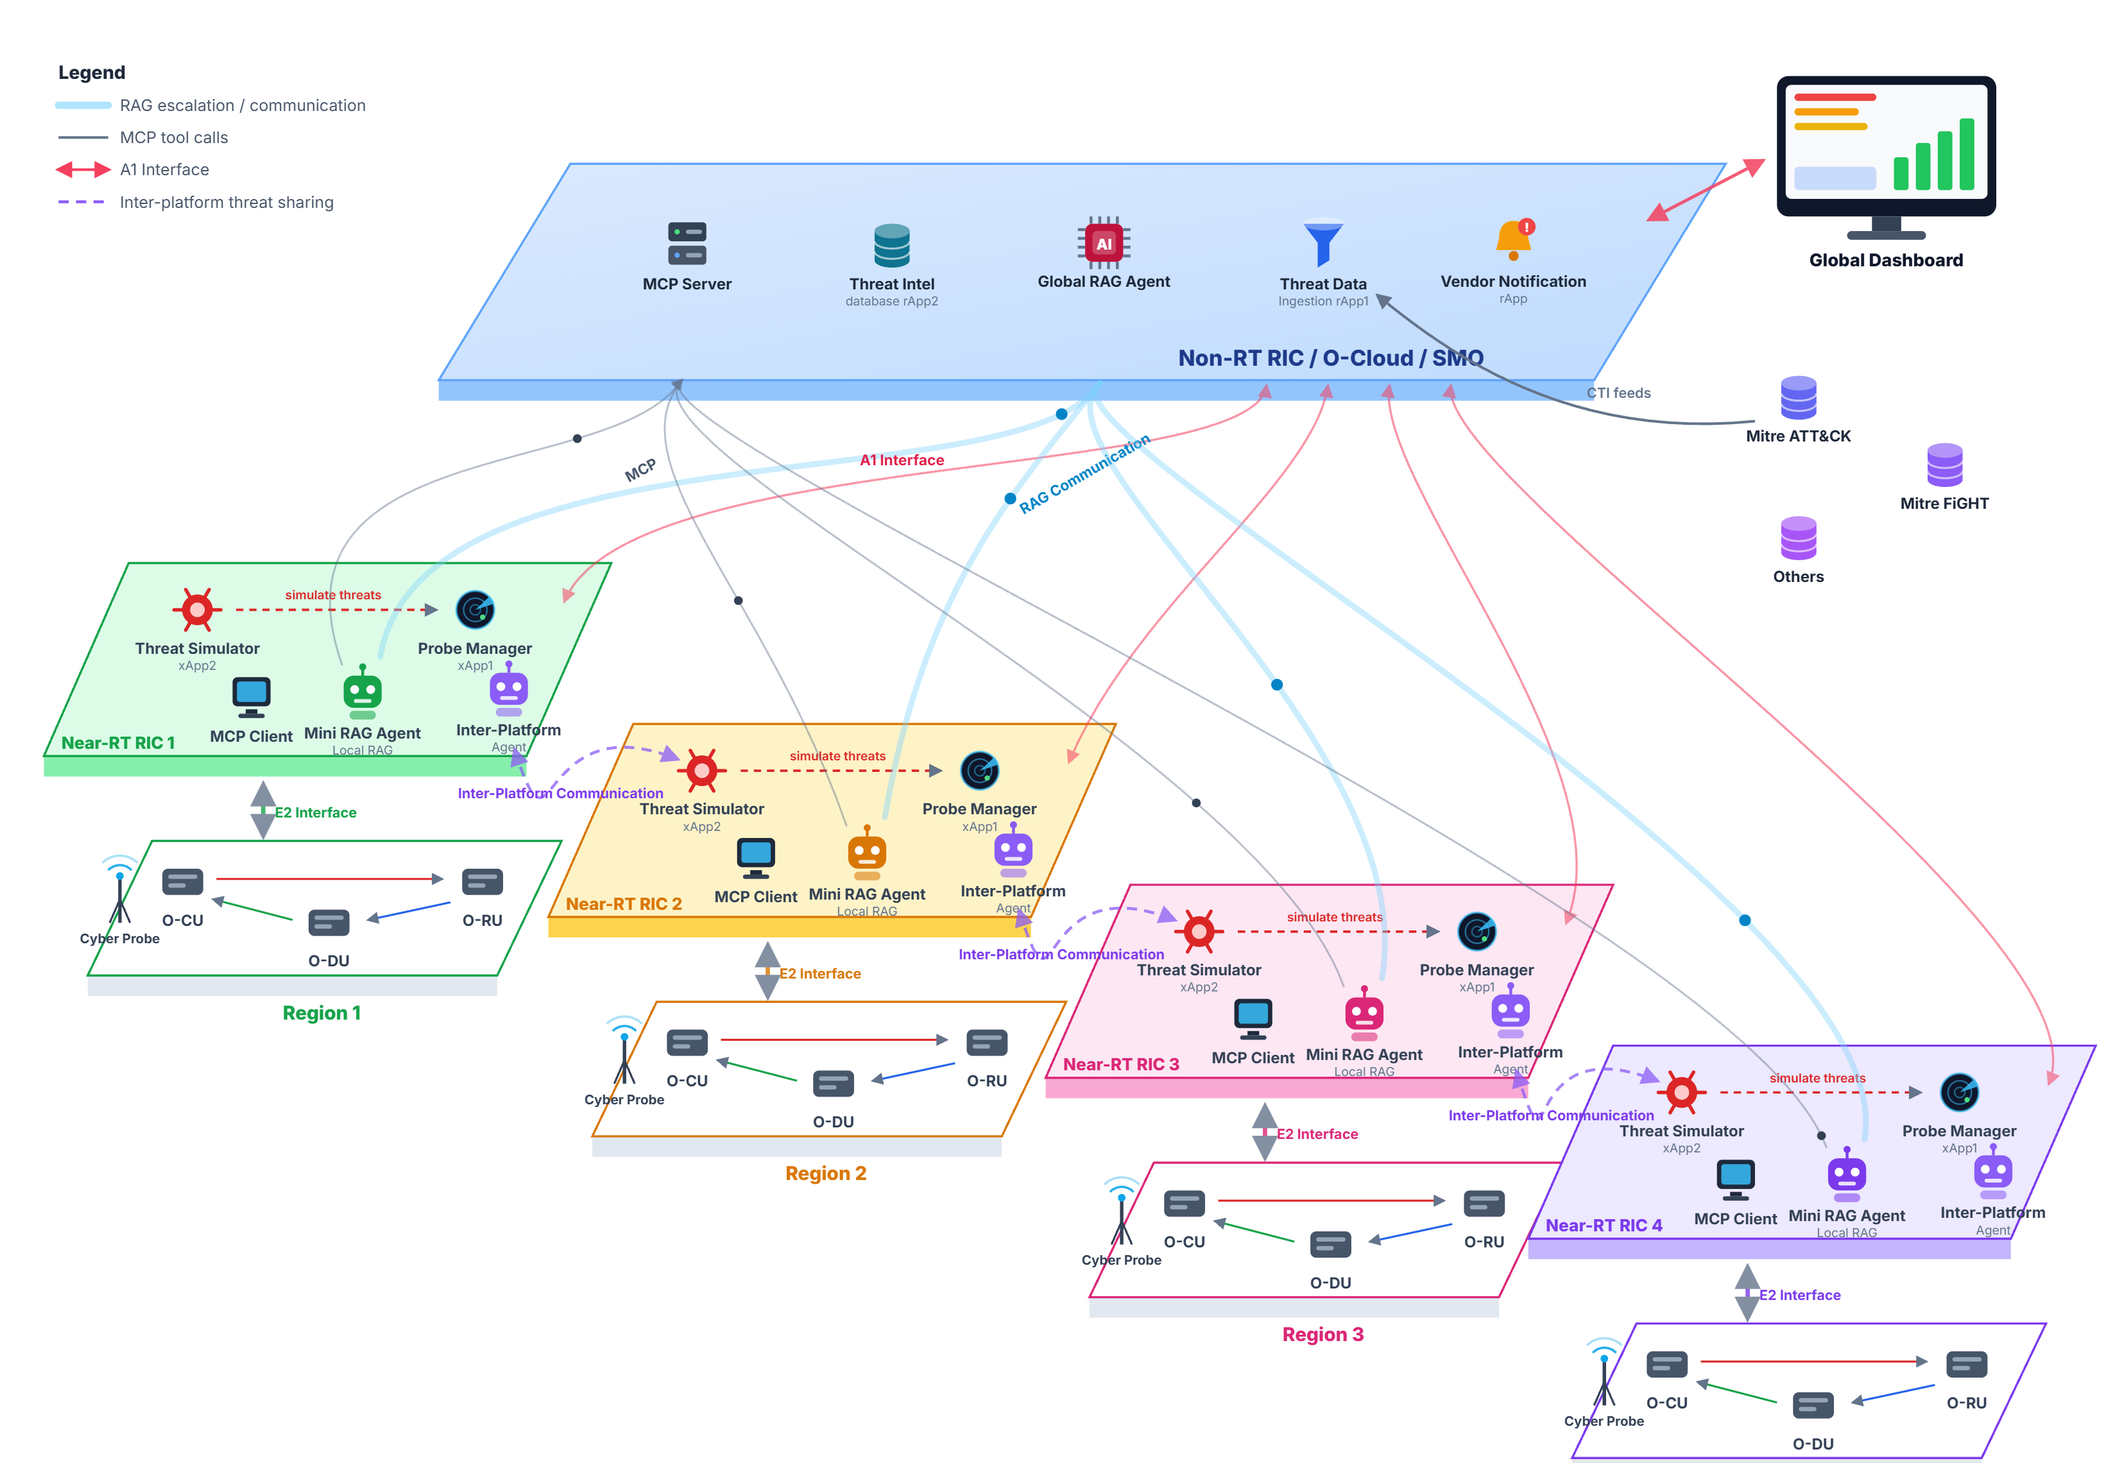
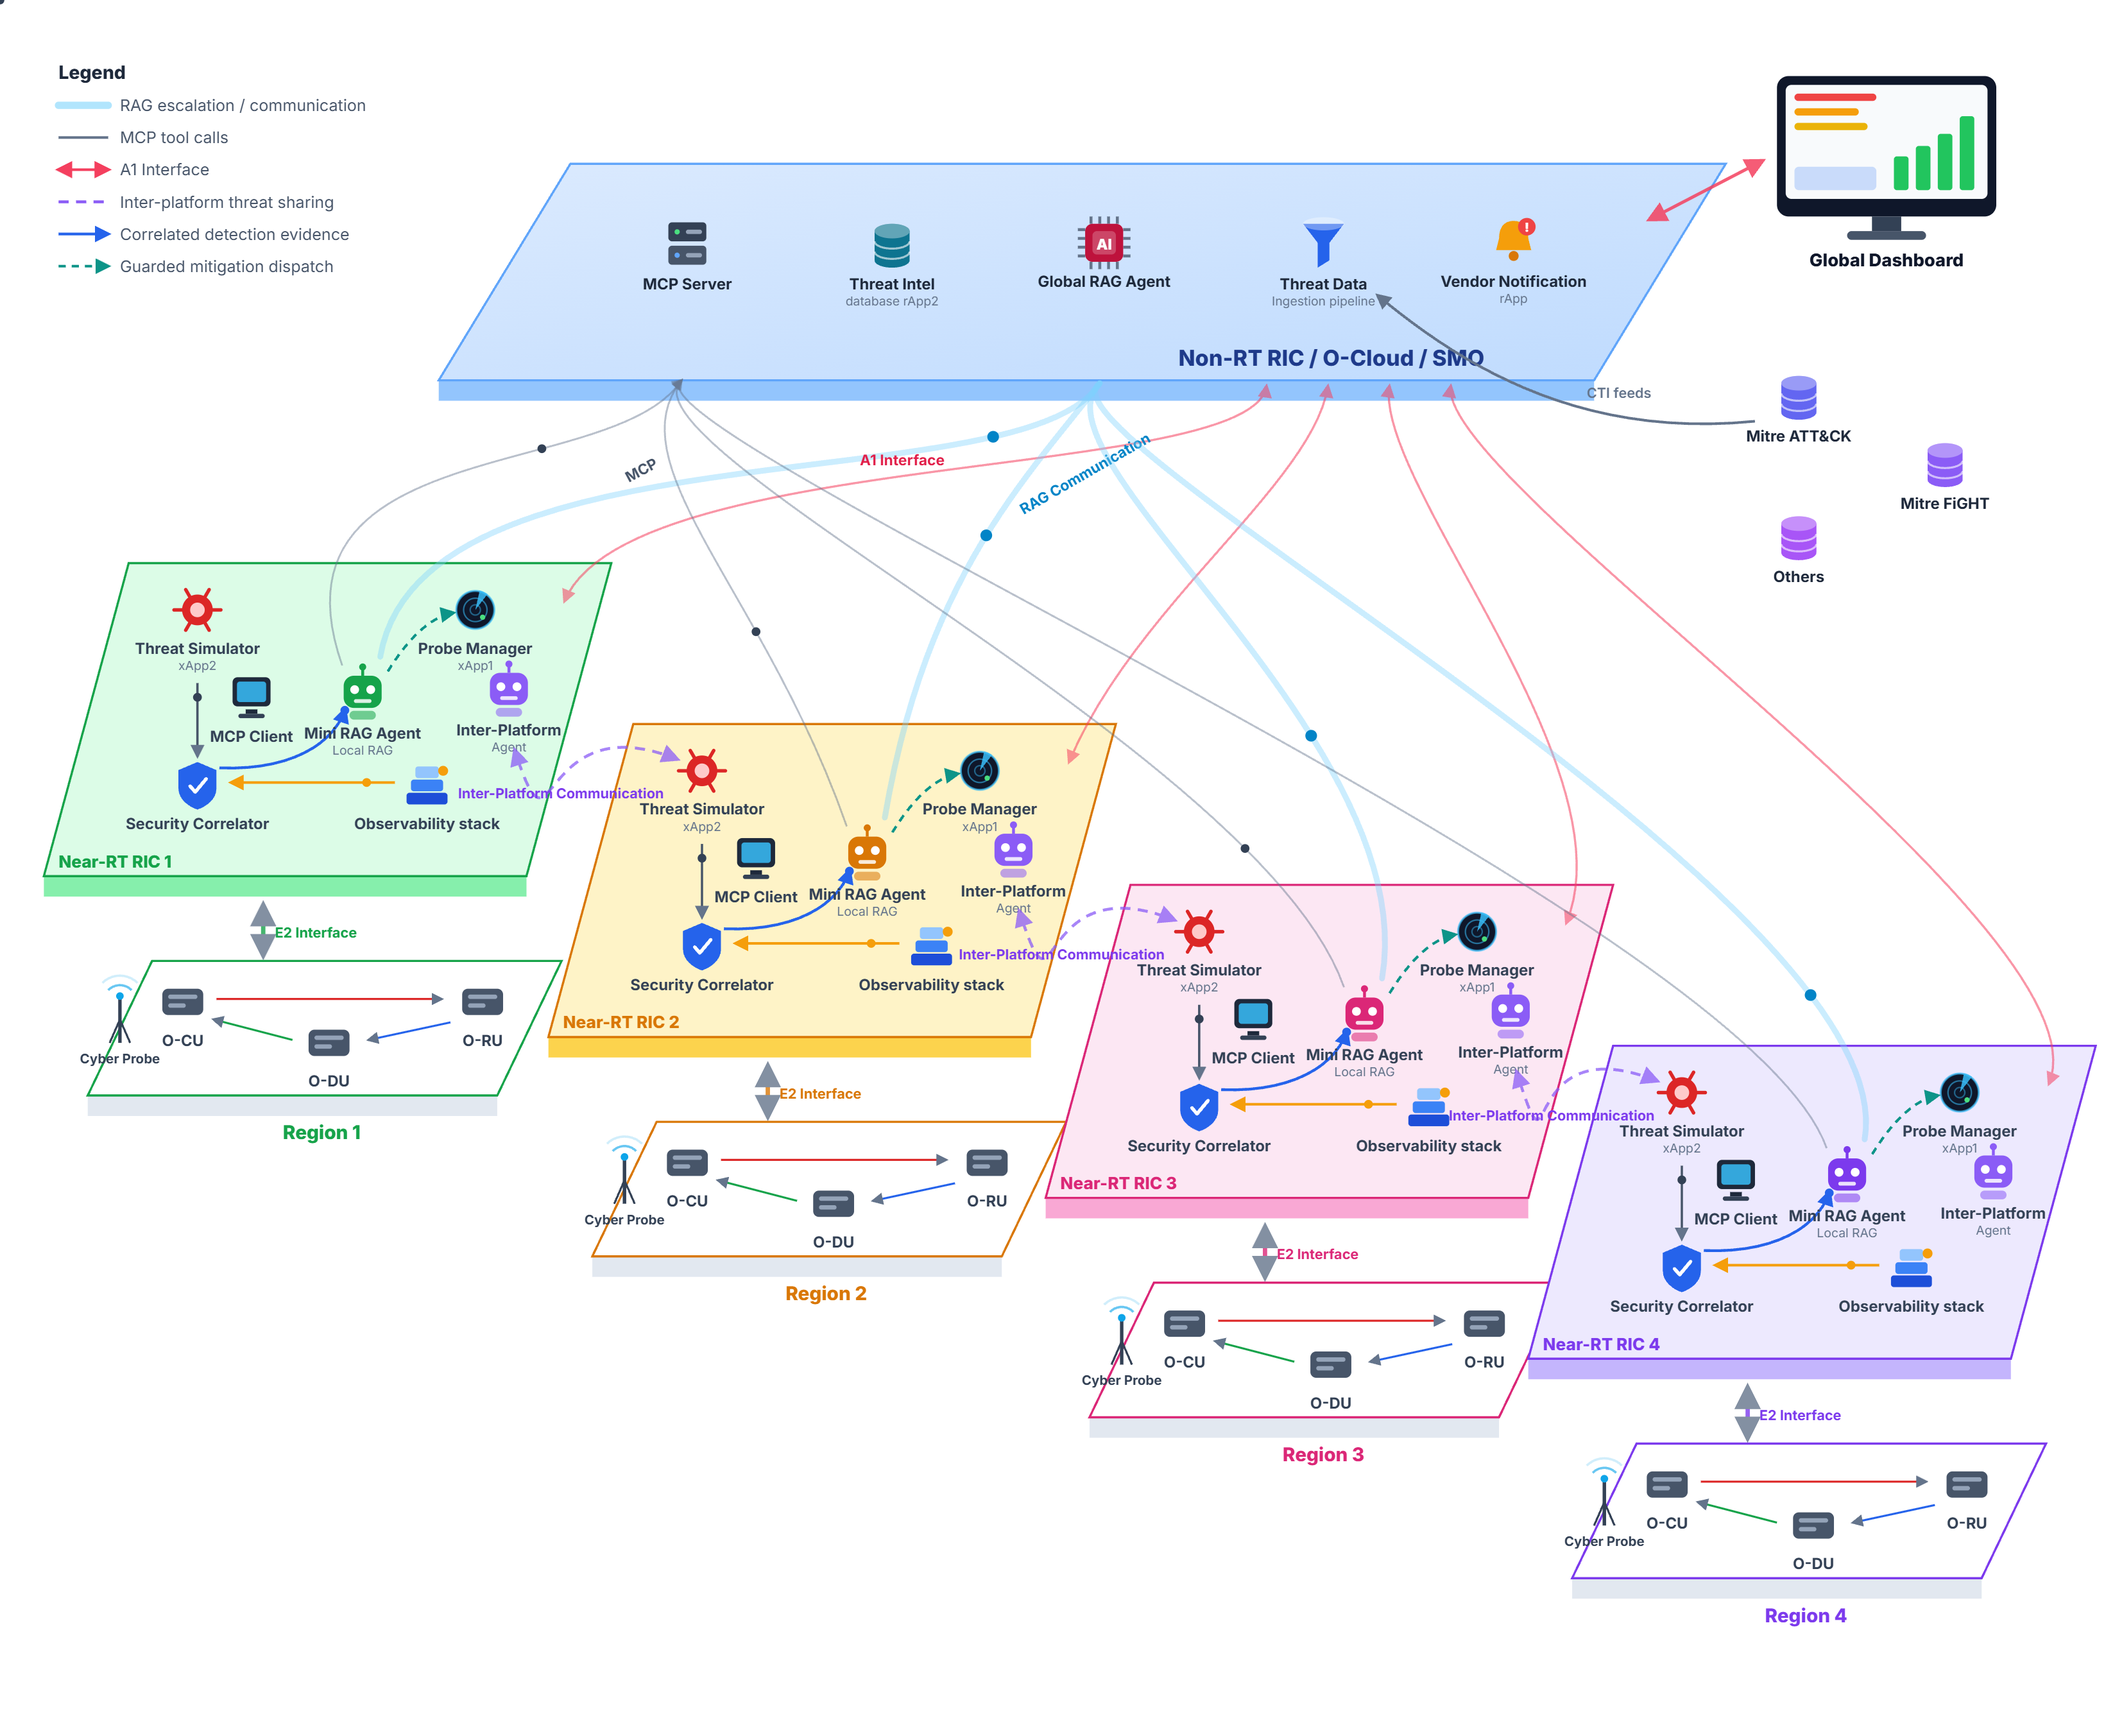
Update architecture: new diagram plus detection and mitigation in the SVG
- Overview now uses the updated architecture drawing. The source export
  embedded 93 MB of drawio XML in a PNG text chunk, so the committed
  asset is the flattened image composited onto white (638 KB); the raw
  export is gitignored.
- Animated architecture diagram gains the two sections the old drawing
  was missing, per region: a Security Correlator fed by xApp2 evidence
  and the observability stack, handing the normalised event to the Mini
  RAG agent, plus a guarded mitigation dispatch to xApp1. Legend extended
  with both new link types.
- Region slabs grew to fit the new row, which also fixes the Region 4
  label that was previously clipped outside the viewBox.

diff --git a/src/components/IsometricArchitecture.tsx b/src/components/IsometricArchitecture.tsx
@@ -18,9 +18,27 @@ type Glyph =
   | 'radar'
   | 'client'
   | 'node'
+  | 'shield'
+  | 'stack'
 
 function GlyphShape({ kind, color }: { kind: Glyph; color: string }) {
   switch (kind) {
+    case 'shield':
+      return (
+        <g>
+          <path d="M0 -16 L13 -10.5 V2 C13 9.5 6 14.5 0 16.5 C-6 14.5 -13 9.5 -13 2 V-10.5 Z" fill={color} />
+          <path d="M-5 0.5 L-1.5 4.5 L6 -4.5" fill="none" stroke="#ffffff" strokeWidth={2.4} strokeLinecap="round" strokeLinejoin="round" />
+        </g>
+      )
+    case 'stack':
+      return (
+        <g>
+          <rect x={-14} y={5} width={28} height={8} rx={2} fill="#1d4ed8" />
+          <rect x={-11} y={-4} width={22} height={8} rx={2} fill="#3b82f6" />
+          <rect x={-8} y={-13} width={16} height={8} rx={2} fill="#93c5fd" />
+          <circle cx={11} cy={-10} r={3.4} fill="#f59e0b" />
+        </g>
+      )
     case 'server':
       return (
         <g>
@@ -227,7 +245,7 @@ const EDGE: Record<number, string> = { 1: '#86efac', 2: '#fcd34d', 3: '#f9a8d4',
 export default function IsometricArchitecture() {
   return (
     <div className="card overflow-x-auto p-3">
-      <svg viewBox="0 0 1440 1000" className="min-w-[1050px]" role="img" aria-label="System architecture: Non-RT RIC platform over four Near-RT RIC regions">
+      <svg viewBox="0 0 1440 1180" className="min-w-[1050px]" role="img" aria-label="System architecture: Non-RT RIC platform over four Near-RT RIC regions">
         <defs>
           <marker id="ia-rose" viewBox="0 0 10 10" refX="8" refY="5" markerWidth="6.5" markerHeight="6.5" orient="auto-start-reverse">
             <path d="M0 0L10 5L0 10z" fill="#f43f5e" />
@@ -237,6 +255,15 @@ export default function IsometricArchitecture() {
           </marker>
           <marker id="ia-slate" viewBox="0 0 10 10" refX="8" refY="5" markerWidth="6" markerHeight="6" orient="auto-start-reverse">
             <path d="M0 0L10 5L0 10z" fill="#64748b" />
+          </marker>
+          <marker id="ia-amber" viewBox="0 0 10 10" refX="8" refY="5" markerWidth="6" markerHeight="6" orient="auto-start-reverse">
+            <path d="M0 0L10 5L0 10z" fill="#f59e0b" />
+          </marker>
+          <marker id="ia-blue" viewBox="0 0 10 10" refX="8" refY="5" markerWidth="6" markerHeight="6" orient="auto-start-reverse">
+            <path d="M0 0L10 5L0 10z" fill="#2563eb" />
+          </marker>
+          <marker id="ia-teal" viewBox="0 0 10 10" refX="8" refY="5" markerWidth="6" markerHeight="6" orient="auto-start-reverse">
+            <path d="M0 0L10 5L0 10z" fill="#0d9488" />
           </marker>
           <linearGradient id="ia-plat" x1="0" y1="0" x2="1" y2="1">
             <stop offset="0%" stopColor="#dbeafe" />
@@ -295,26 +322,50 @@ export default function IsometricArchitecture() {
           return (
             <g key={n}>
               {/* RIC slab */}
-              <Slab x={x} y={y} w={330} h={132} skew={58} fill={SURFACE[n]} edge={EDGE[n]} stroke={color} />
-              <text x={x + 12} y={y + 127} fontSize={11.5} fontWeight={800} fill={color}>
+              <Slab x={x} y={y} w={330} h={214} skew={58} fill={SURFACE[n]} edge={EDGE[n]} stroke={color} />
+              <text x={x + 10} y={y + 208} fontSize={11.5} fontWeight={800} fill={color}>
                 Near-RT RIC {n}
               </text>
 
               <Icon x={x + 105} y={y + 32} kind="bug" label="Threat Simulator" sub="xApp2" labelColor="#334155" />
               <Icon x={x + 295} y={y + 32} kind="radar" label="Probe Manager" sub="xApp1" labelColor="#334155" />
-              <line x1={x + 128} y1={y + 32} x2={x + 268} y2={y + 32} stroke="#dc2626" strokeWidth={1.6} strokeDasharray="5 4" markerEnd="url(#ia-slate)">
-                <animate attributeName="stroke-dashoffset" from="18" to="0" dur="1s" repeatCount="indefinite" />
-              </line>
-              <text x={x + 198} y={y + 25} textAnchor="middle" fontSize={8.5} fill="#dc2626" fontWeight={600}>
-                simulate threats
-              </text>
+
+              {/* detection: observability stack feeds the security correlator */}
+              <Icon x={x + 105} y={y + 152} kind="shield" label="Security Correlator" color="#2563eb" labelColor="#334155" />
+              <Icon x={x + 262} y={y + 152} kind="stack" label="Observability stack" labelColor="#334155" />
+
+              {/* xApp2 evidence straight down into the correlator */}
+              <line x1={x + 105} y1={y + 82} x2={x + 105} y2={y + 132} stroke="#475569" strokeWidth={1.6} markerEnd="url(#ia-slate)" />
+              <MovingDot path={`M ${x + 105} ${y + 82} V ${y + 130}`} color="#334155" dur={2.4} r={3} />
+
+              {/* observability stack into the correlator */}
+              <line x1={x + 240} y1={y + 150} x2={x + 128} y2={y + 150} stroke="#f59e0b" strokeWidth={1.8} markerEnd="url(#ia-amber)" />
+              <MovingDot path={`M ${x + 240} ${y + 150} H ${x + 130}`} color="#f59e0b" dur={2.2} delay={0.3} r={3} />
+
+              {/* correlator hands the normalised event to the Mini RAG agent */}
+              <path
+                d={`M ${x + 120} ${y + 140} C ${x + 168} ${y + 142}, ${x + 198} ${y + 124}, ${x + 206} ${y + 100}`}
+                fill="none" stroke="#2563eb" strokeWidth={1.9} markerEnd="url(#ia-blue)"
+              />
+              <MovingDot
+                path={`M ${x + 120} ${y + 140} C ${x + 168} ${y + 142}, ${x + 198} ${y + 124}, ${x + 206} ${y + 100}`}
+                color="#2563eb" dur={2.2} delay={0.7} r={3}
+              />
+
+              {/* guarded mitigation dispatched to xApp1 */}
+              <path
+                d={`M ${x + 234} ${y + 76} C ${x + 252} ${y + 46}, ${x + 268} ${y + 36}, ${x + 280} ${y + 34}`}
+                fill="none" stroke="#0d9488" strokeWidth={1.8} strokeDasharray="5 4" markerEnd="url(#ia-teal)"
+              >
+                <animate attributeName="stroke-dashoffset" from="18" to="0" dur="1.1s" repeatCount="indefinite" />
+              </path>
 
               <Icon x={x + 142} y={y + 92} kind="client" label="MCP Client" labelColor="#334155" />
               <Icon x={x + 218} y={y + 90} kind="bot" label="Mini RAG Agent" sub="Local RAG" color={color} labelColor="#334155" />
               <Icon x={x + 318} y={y + 88} kind="bot" label="Inter-Platform" sub="Agent" color="#8b5cf6" labelColor="#334155" />
 
               {/* E2 down to RAN */}
-              <g transform={`translate(${x + 150},${y + 152})`}>
+              <g transform={`translate(${x + 150},${y + 234})`}>
                 <line x1={0} y1={0} x2={0} y2={34} stroke={color} strokeWidth={3} opacity={0.8} markerEnd="url(#ia-slate)" markerStart="url(#ia-slate)" />
                 <text x={8} y={22} fontSize={9.5} fontWeight={700} fill={color}>
                   E2 Interface
@@ -322,15 +373,15 @@ export default function IsometricArchitecture() {
               </g>
 
               {/* RAN slab */}
-              <Slab x={x + 30} y={y + 190} w={280} h={92} skew={44} fill="white" edge="#e2e8f0" stroke={color} />
-              <Icon x={x + 95} y={y + 218} kind="node" label="O-CU" labelColor="#334155" />
-              <Icon x={x + 300} y={y + 218} kind="node" label="O-RU" labelColor="#334155" />
-              <Icon x={x + 195} y={y + 246} kind="node" label="O-DU" labelColor="#334155" />
-              <line x1={x + 118} y1={y + 216} x2={x + 272} y2={y + 216} stroke="#dc2626" strokeWidth={1.4} markerEnd="url(#ia-slate)" />
-              <line x1={x + 278} y1={y + 232} x2={x + 222} y2={y + 244} stroke="#2563eb" strokeWidth={1.4} markerEnd="url(#ia-slate)" />
-              <line x1={x + 170} y1={y + 244} x2={x + 116} y2={y + 230} stroke="#16a34a" strokeWidth={1.4} markerEnd="url(#ia-slate)" />
+              <Slab x={x + 30} y={y + 272} w={280} h={92} skew={44} fill="white" edge="#e2e8f0" stroke={color} />
+              <Icon x={x + 95} y={y + 300} kind="node" label="O-CU" labelColor="#334155" />
+              <Icon x={x + 300} y={y + 300} kind="node" label="O-RU" labelColor="#334155" />
+              <Icon x={x + 195} y={y + 328} kind="node" label="O-DU" labelColor="#334155" />
+              <line x1={x + 118} y1={y + 298} x2={x + 272} y2={y + 298} stroke="#dc2626" strokeWidth={1.4} markerEnd="url(#ia-slate)" />
+              <line x1={x + 278} y1={y + 314} x2={x + 222} y2={y + 326} stroke="#2563eb" strokeWidth={1.4} markerEnd="url(#ia-slate)" />
+              <line x1={x + 170} y1={y + 326} x2={x + 116} y2={y + 312} stroke="#16a34a" strokeWidth={1.4} markerEnd="url(#ia-slate)" />
               {/* cyber probe mast */}
-              <g transform={`translate(${x + 52},${y + 232})`}>
+              <g transform={`translate(${x + 52},${y + 314})`}>
                 <line x1={0} y1={14} x2={0} y2={-16} stroke="#334155" strokeWidth={2.4} />
                 <path d="M-7 14 L0 -2 L7 14" fill="none" stroke="#334155" strokeWidth={1.4} />
                 <circle cx={0} cy={-18} r={2.6} fill="#0ea5e9" />
@@ -344,7 +395,7 @@ export default function IsometricArchitecture() {
                   Cyber Probe
                 </text>
               </g>
-              <text x={x + 190} y={y + 312} textAnchor="middle" fontSize={13} fontWeight={800} fill={color}>
+              <text x={x + 190} y={y + 394} textAnchor="middle" fontSize={13} fontWeight={800} fill={color}>
                 Region {n}
               </text>
             </g>
@@ -428,6 +479,10 @@ export default function IsometricArchitecture() {
           <text x={42} y={40}>A1 Interface</text>
           <line x1={0} y1={58} x2={34} y2={58} stroke="#8b5cf6" strokeWidth={2} strokeDasharray="7 5" />
           <text x={42} y={62}>Inter-platform threat sharing</text>
+          <line x1={0} y1={80} x2={34} y2={80} stroke="#2563eb" strokeWidth={1.9} markerEnd="url(#ia-blue)" />
+          <text x={42} y={84}>Correlated detection evidence</text>
+          <line x1={0} y1={102} x2={34} y2={102} stroke="#0d9488" strokeWidth={1.8} strokeDasharray="5 4" markerEnd="url(#ia-teal)" />
+          <text x={42} y={106}>Guarded mitigation dispatch</text>
         </g>
       </svg>
     </div>

diff --git a/src/pages/OverviewPage.tsx b/src/pages/OverviewPage.tsx
@@ -1,7 +1,7 @@
 import { motion } from 'framer-motion'
 import { RegionChip, Block } from '../components/ui'
 import { PageId } from '../router'
-import archImg from '../assets/overview-image-new.jpeg'
+import archImg from '../assets/architecture-v2.png'
 
 const stats = [
   ['4', 'Near-RT RIC regions', 'ric-1 … ric-4, fully isolated'],
@@ -98,9 +98,9 @@ export default function OverviewPage({ navigate }: { navigate: (p: PageId) => vo
         intro={
           <>
             The full platform on one canvas: the Non-RT RIC / O-Cloud / SMO layer hosting the MCP Server, Global RAG
-            Agent, threat-intel rApps and global dashboard, over the regional Near-RT RICs. Each one carries its own
-            Threat Simulator, Probe Manager, Mini RAG Agent and Inter-Platform Agent, connected to its RAN layer
-            over the E2 interface.
+            Agent, Inter-Platform Agent, data ingestion rApp and vendor notification, over the regional Near-RT RICs.
+            Each region carries xApp1, xApp2, an MCP client and a Mini RAG Agent, with its own Security Correlator
+            and observability stack feeding detection, and its RAN connected over the E2 interface.
           </>
         }
         className="mt-10"
@@ -121,8 +121,8 @@ export default function OverviewPage({ navigate }: { navigate: (p: PageId) => vo
           </div>
           <figcaption className="flex flex-wrap items-center justify-between gap-3 border-t border-line bg-slate-50/60 px-5 py-3 text-xs text-slate-500">
             <span>
-              System architecture: Non-RT RIC / SMO platform over the regional Near-RT RICs and their domain-specific
-              RANs (rural connectivity, university campus, smart city / tech park).
+              System architecture: Non-RT RIC / SMO platform over the regional Near-RT RICs, now including the
+              per-region Security Correlator and observability stack that drive detection.
             </span>
             <button
               onClick={() => navigate('architecture')}
